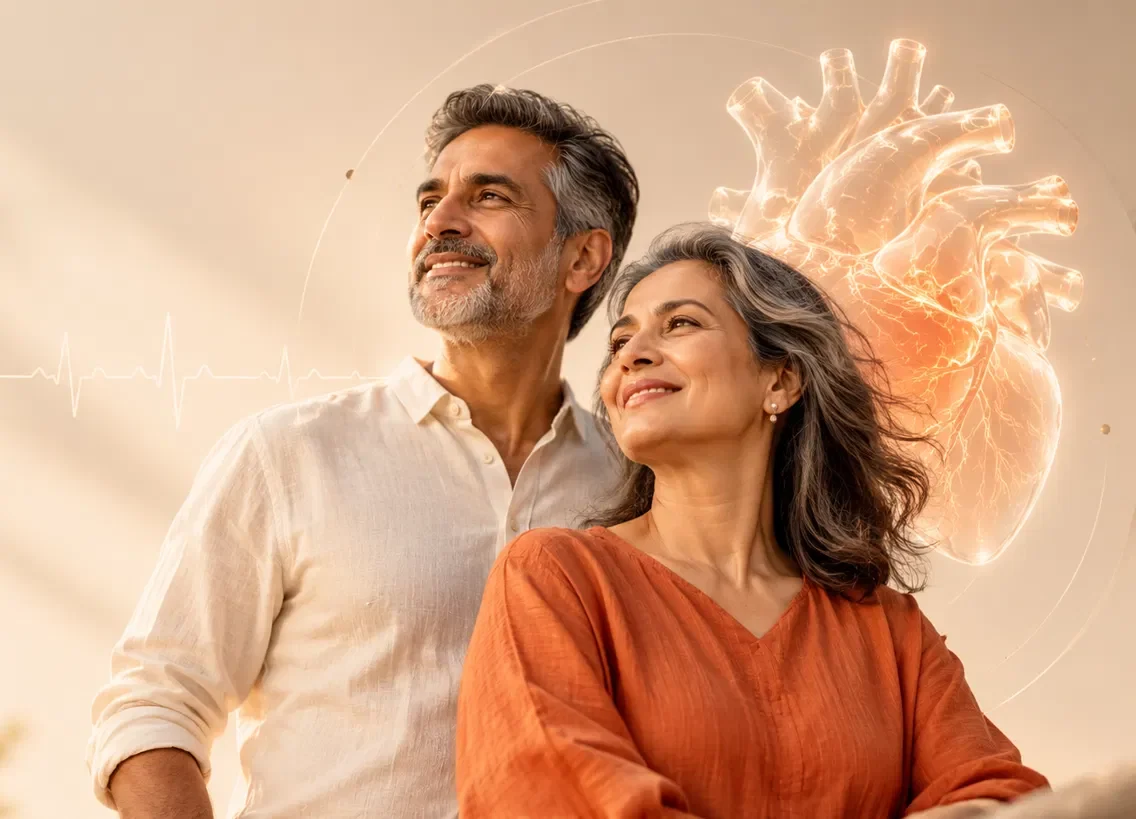
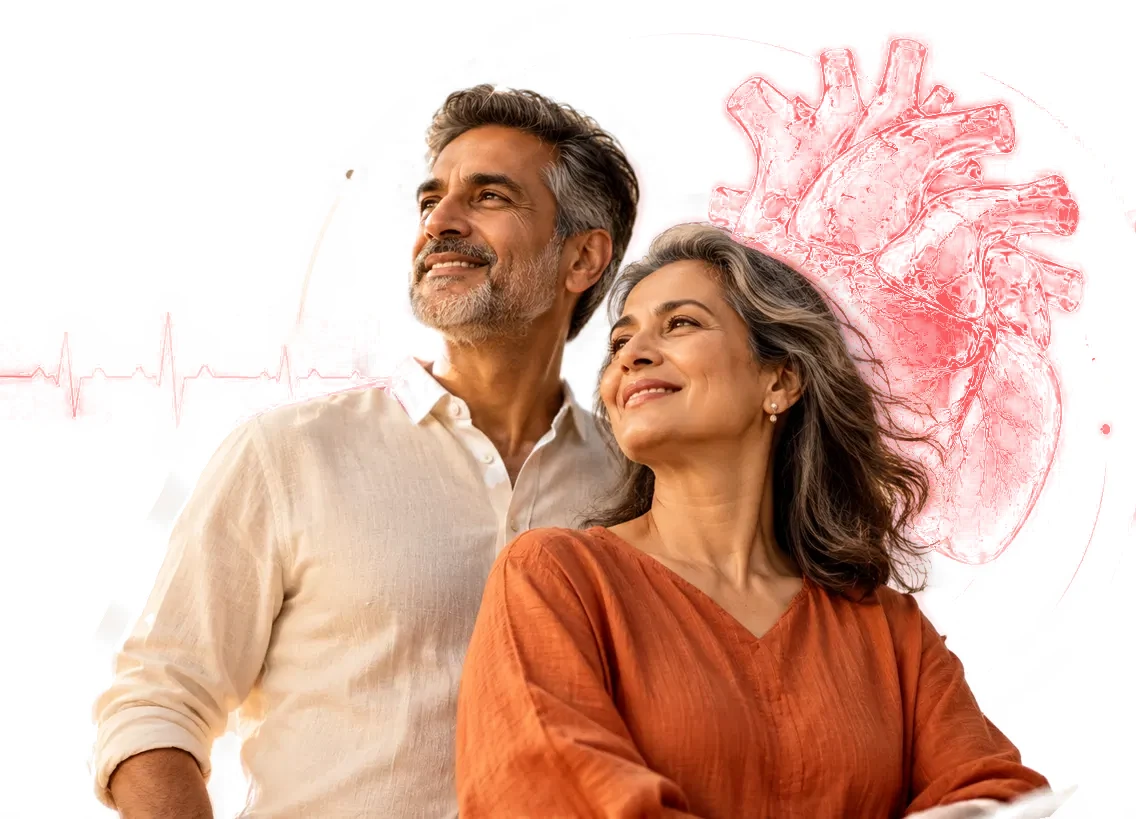
Hero: couple on white
Claude-Session: https://claude.ai/code/session_01PkeobWmfrChtD7SqVdFZLv

diff --git a/index.html b/index.html
@@ -752,12 +752,12 @@ a{color:#4A5163}a:hover{color:#E63E3E}
 .guardl b{font-weight:500;font-size:16px;color:#fff}.guardl span{font-size:15px;color:#A99F9C;margin-top:4px;line-height:1.55}
 @media (max-width:1000px){.guard{padding:72px 0}.guardg{grid-template-columns:minmax(0,1fr);gap:28px}.guardv{border-radius:24px}.guardp{font-size:16px}}
 /* couple hero */
-.leapcpl{background:#F7EADC}
+.leapcpl{background:#fff}
 .leapcpl picture{position:absolute;inset:0;z-index:0;display:block}
 .leapcpl::after{display:none!important}
 .leapcpl .leapcp{object-position:70% 30%;animation:cpdrift 30s ease-in-out infinite alternate!important;transform-origin:70% 40%}
 @keyframes cpdrift{from{transform:scale(1.02)}to{transform:scale(1.07)}}
-.leapcpl::before{content:"";position:absolute;inset:0;z-index:1;pointer-events:none;background:linear-gradient(90deg,rgba(248,236,222,.9) 0%,rgba(248,236,222,.72) 30%,rgba(248,236,222,0) 50%)}
+.leapcpl::before{content:"";position:absolute;inset:0;z-index:1;pointer-events:none;background:linear-gradient(90deg,rgba(255,255,255,.92) 0%,rgba(255,255,255,.7) 30%,rgba(255,255,255,0) 50%)}
 .leapcpl .leaptop,.leapcpl .leapbot{z-index:2}
 .leapcpl .leaph{color:#1F2333}
 .leapcpl .leaph .grad{color:#FC5050!important;background:none!important;-webkit-text-fill-color:#FC5050!important;filter:none!important}
